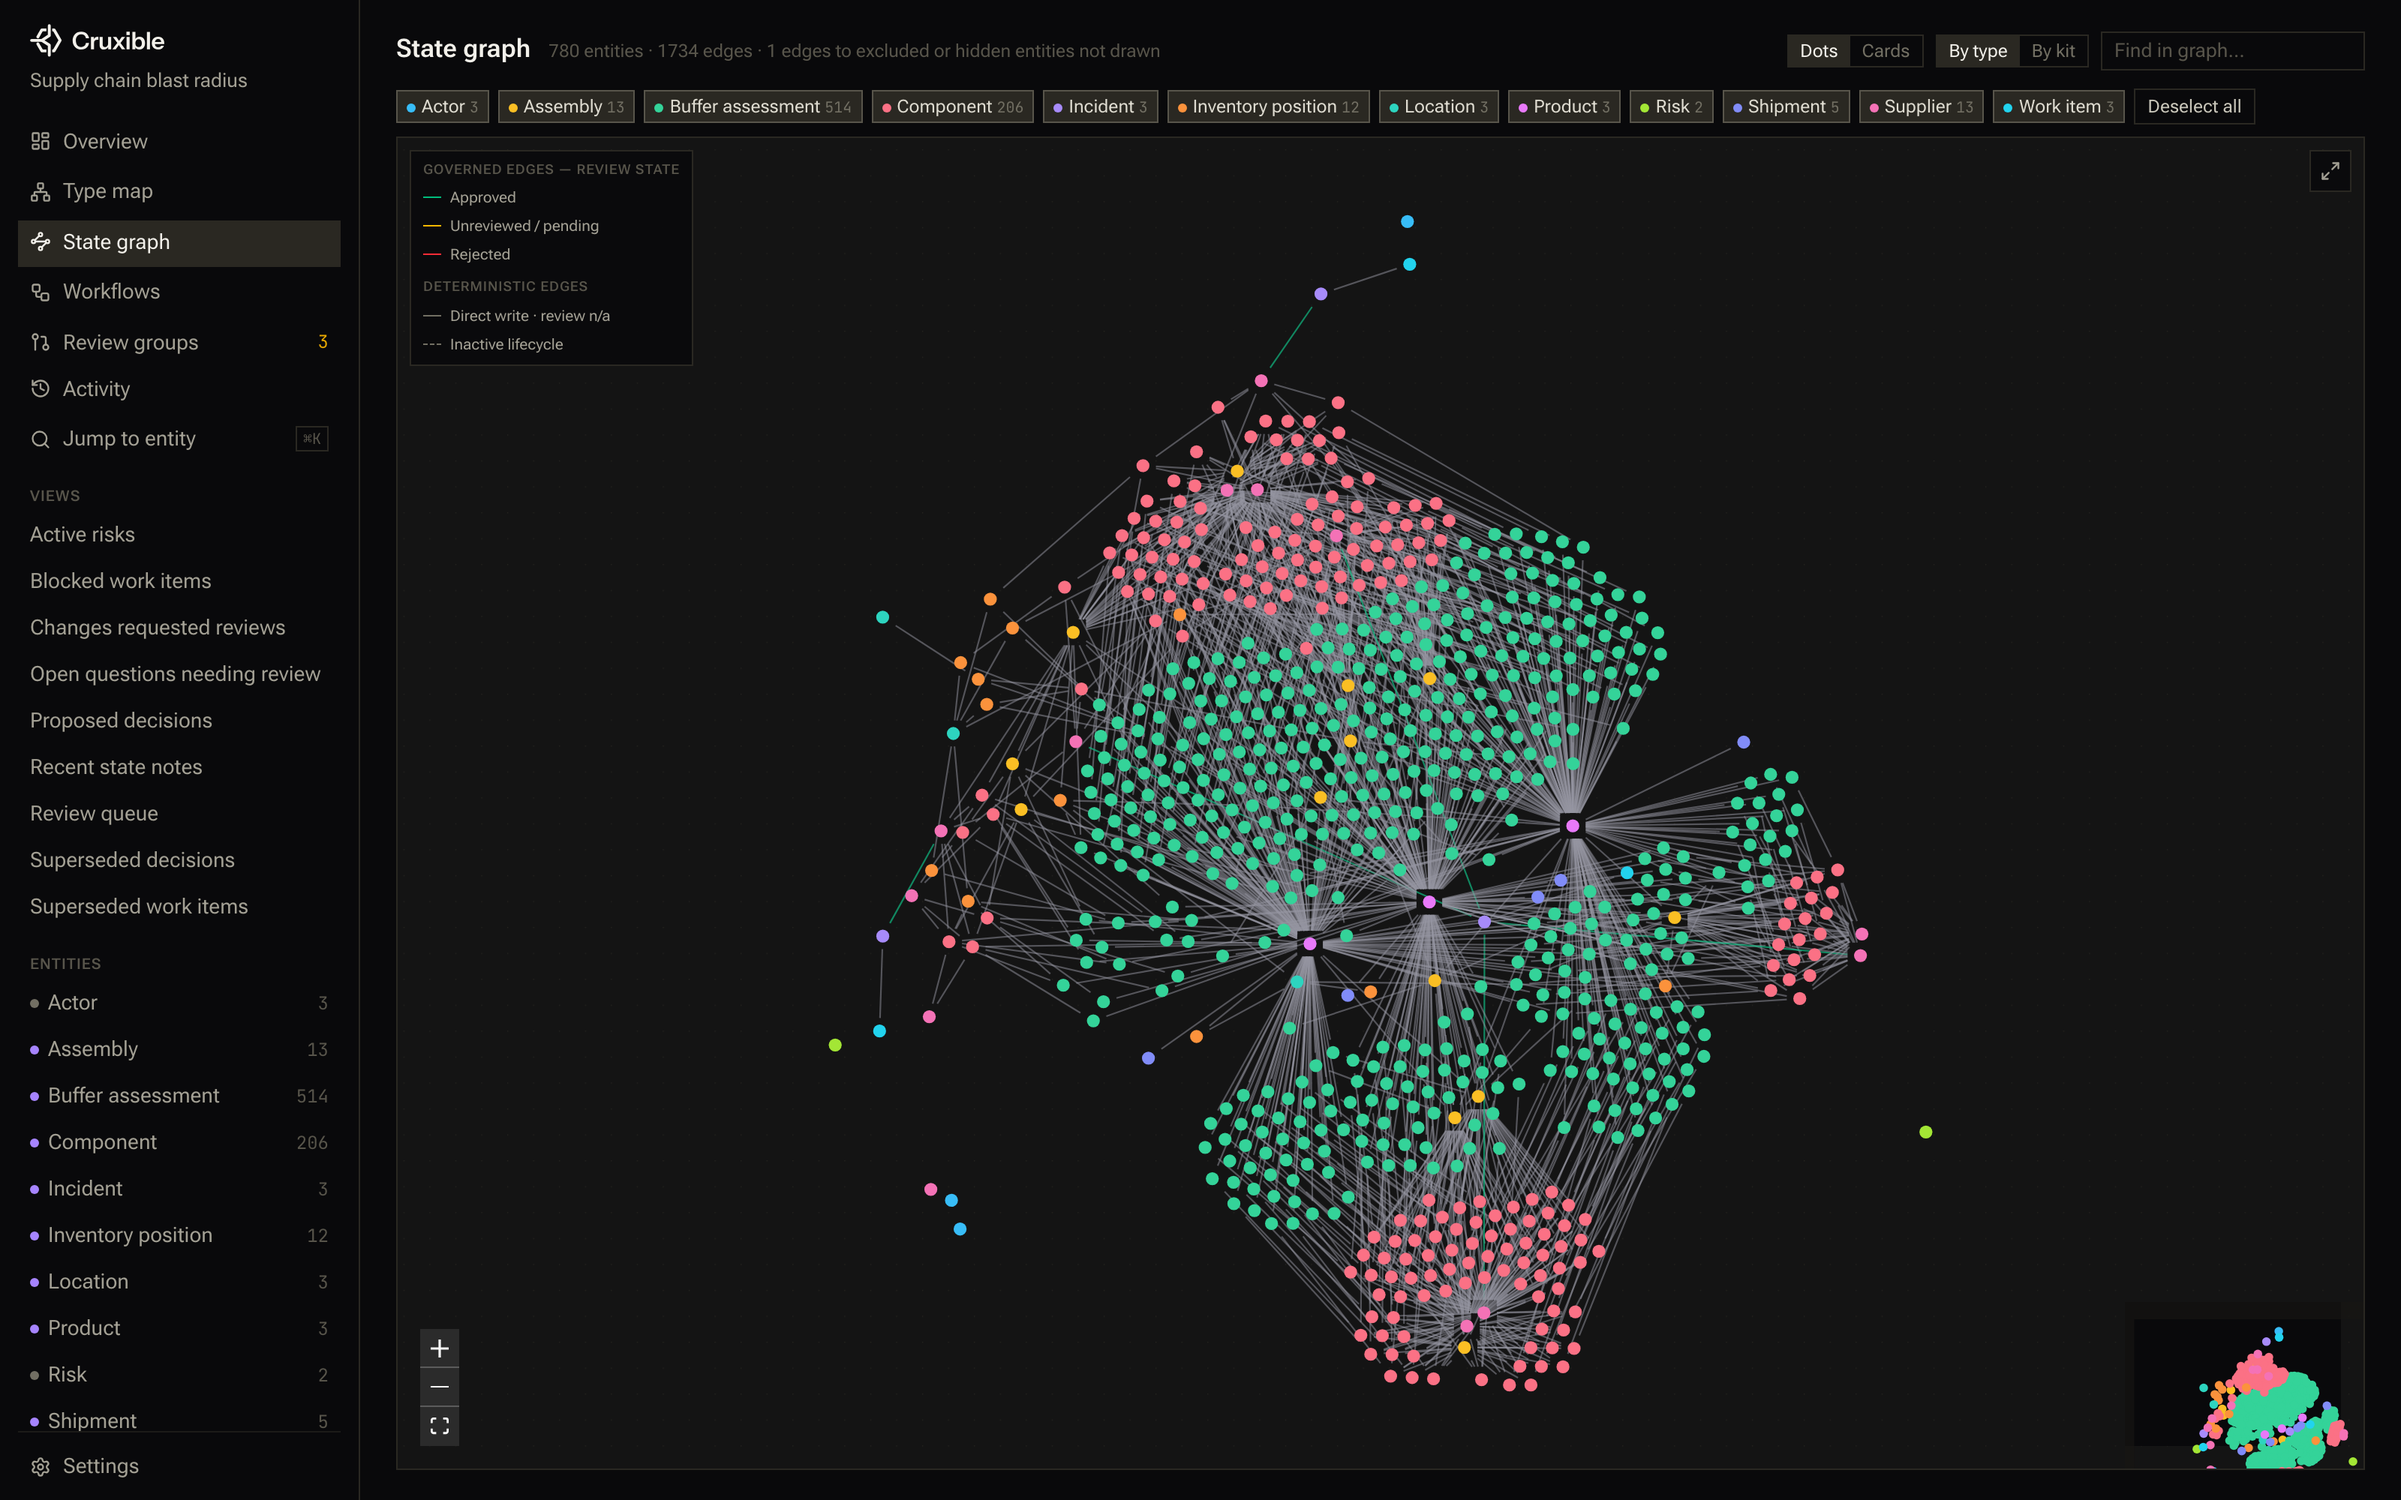
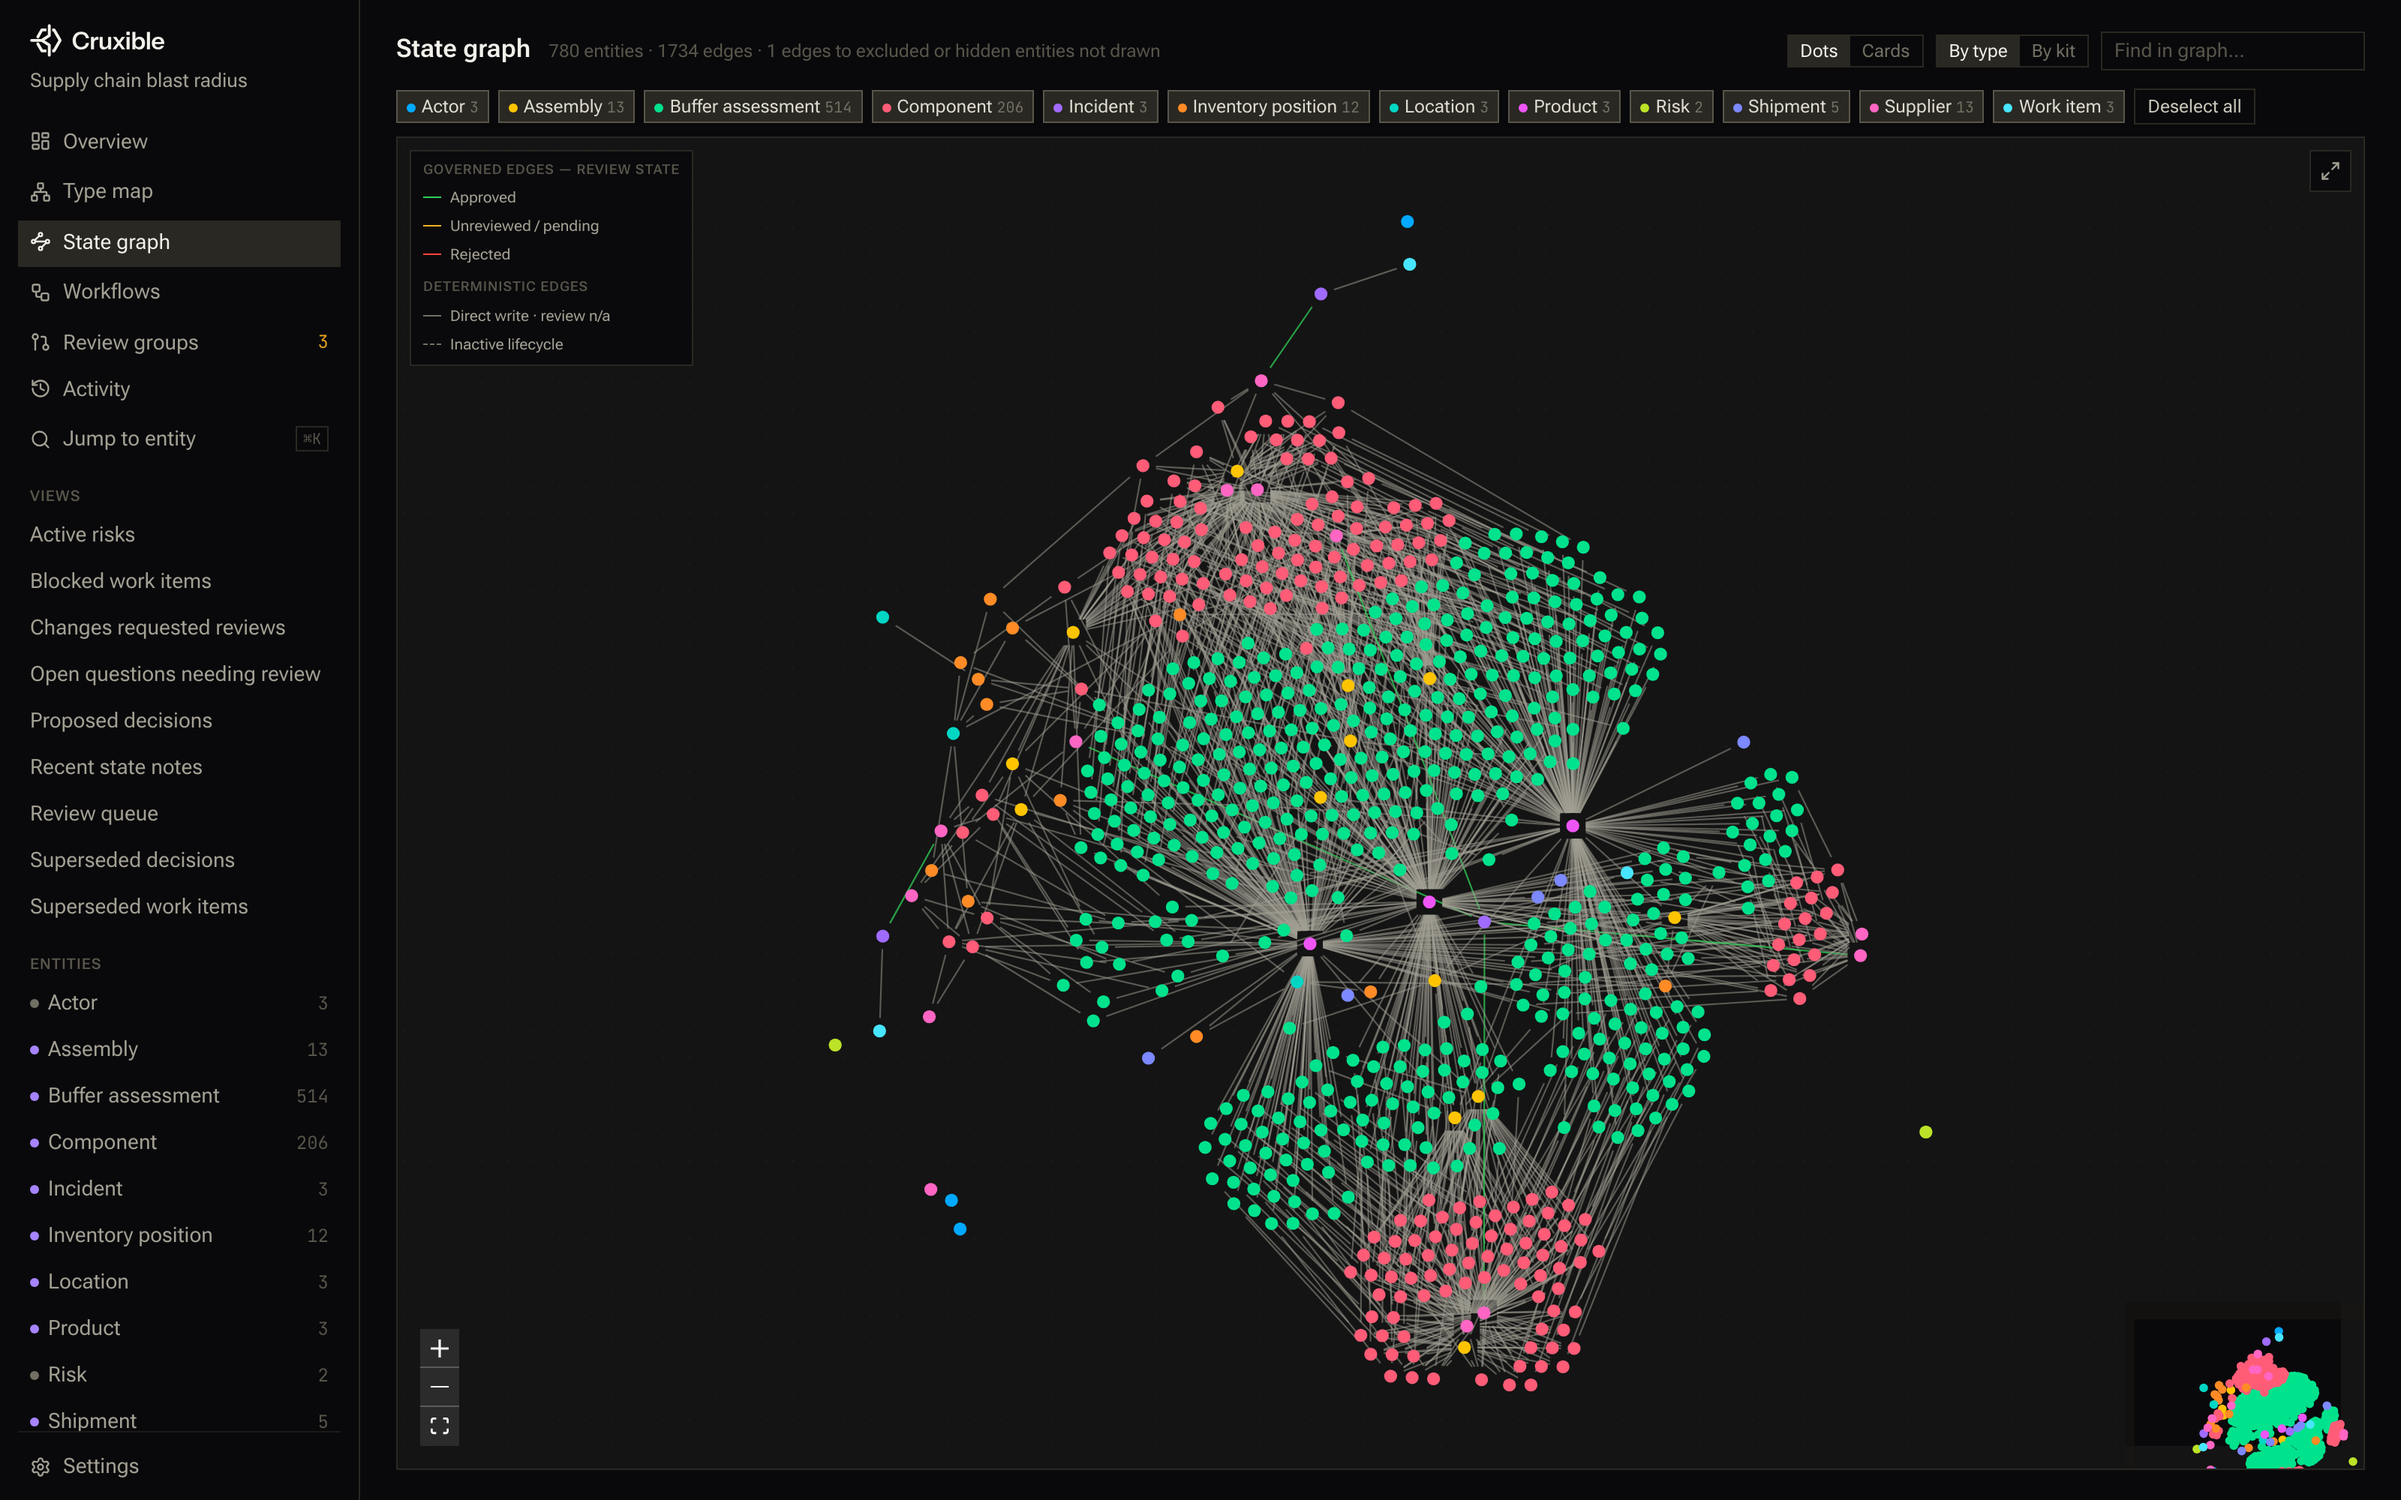
Vivid palette: semantic state trio + punched-up categorical hues
Governance state gets one color language shared with cruxible.ai:
green #30d158 approved/deterministic, amber #ffb224 pending/governed,
red #ff453a rejected - applied via emerald/amber/red shade remaps in
the theme so the class names stay. Entity type palette moves from
Tailwind-400 pastels to vivid hues. Screenshots refreshed.

diff --git a/src/index.css b/src/index.css
@@ -15,6 +15,24 @@
      site's warm grays (fg #F2F0EA = 100, muted #A3A094 = 400, border
      #58554B = 600, bg #09090B = 950) so every existing zinc-* usage
      reads brand-warm instead of blue-gray. */
+  /* Semantic state trio, shared with cruxible.ai's lane marks (accepted /
+     deterministic green, pending amber, rejected red) — vivid on the dark
+     ground. Only the shades the app uses are remapped. */
+  --color-emerald-400: #4ce07a;
+  --color-emerald-500: #30d158;
+  --color-emerald-700: #1d8f3d;
+  --color-emerald-900: #124d24;
+  --color-emerald-950: #0a2e16;
+  --color-amber-300: #ffd166;
+  --color-amber-400: #ffb224;
+  --color-amber-500: #ff9f0a;
+  --color-amber-900: #66430a;
+  --color-amber-950: #3d2a06;
+  --color-red-400: #ff6961;
+  --color-red-500: #ff453a;
+  --color-red-900: #661b16;
+  --color-red-950: #3d100d;
+
   --color-zinc-50: #f7f5f0;
   --color-zinc-100: #f2f0ea;
   --color-zinc-200: #dedbd0;

diff --git a/src/lib/type-colors.ts b/src/lib/type-colors.ts
@@ -8,18 +8,18 @@
  */
 
 export const TYPE_PALETTE = [
-  "#38bdf8", // sky
-  "#fbbf24", // amber
-  "#34d399", // emerald
-  "#fb7185", // rose
-  "#a78bfa", // violet
-  "#fb923c", // orange
-  "#2dd4bf", // teal
-  "#e879f9", // fuchsia
-  "#a3e635", // lime
-  "#818cf8", // indigo
-  "#f472b6", // pink
-  "#22d3ee", // cyan
+  "#00a9ff", // sky
+  "#ffc400", // amber
+  "#00e28c", // spring green
+  "#ff5c77", // rose
+  "#a06bff", // violet
+  "#ff8b26", // orange
+  "#00d6c4", // teal
+  "#ee55f5", // fuchsia
+  "#bce327", // lime
+  "#7c89ff", // indigo
+  "#ff66c4", // pink
+  "#48e5ff", // cyan
 ] as const;
 
 const FALLBACK = "#a1a1aa"; // zinc-400 — types outside the known vocabulary

diff --git a/src/components/graph/EdgeGovernance.tsx b/src/components/graph/EdgeGovernance.tsx
@@ -72,12 +72,12 @@ export function edgeStroke(
   lifecycleStatus: string | null | undefined,
 ): { stroke: string; strokeDasharray?: string } {
   const stroke = !governed
-    ? "rgba(150,150,162,0.5)"
+    ? "rgba(162,159,148,0.5)"
     : POSITIVE_REVIEW.has(reviewStatus ?? "")
-      ? "rgba(16,185,129,0.7)"
+      ? "rgba(48,209,88,0.75)"
       : NEGATIVE_REVIEW.has(reviewStatus ?? "")
-        ? "rgba(239,68,68,0.7)"
-        : "rgba(245,158,11,0.75)";
+        ? "rgba(255,69,58,0.75)"
+        : "rgba(255,178,36,0.8)";
   const active = lifecycleStatus == null || lifecycleStatus === "active";
   return active ? { stroke } : { stroke, strokeDasharray: "5 4" };
 }

diff --git a/src/components/PathGraph.tsx b/src/components/PathGraph.tsx
@@ -171,7 +171,7 @@ export function buildPathGraph(
     }
 
     const edges: Edge[] = [...edgeById.entries()].map(([id, agg]) => {
-      const stroke = agg.reviewStatus === "unreviewed" ? "#403d34" : "#10b981";
+      const stroke = agg.reviewStatus === "unreviewed" ? "#403d34" : "#30d158";
       return {
         id,
         source: agg.source,

diff --git a/src/components/PathGraph.test.ts b/src/components/PathGraph.test.ts
@@ -104,7 +104,7 @@ describe("buildPathGraph", () => {
       "#403d34",
     );
     expect(byId["incident_affects_supplier|Incident:inc-gd|Supplier:s-ldo"]?.style?.stroke).toBe(
-      "#10b981",
+      "#30d158",
     );
   });
 
